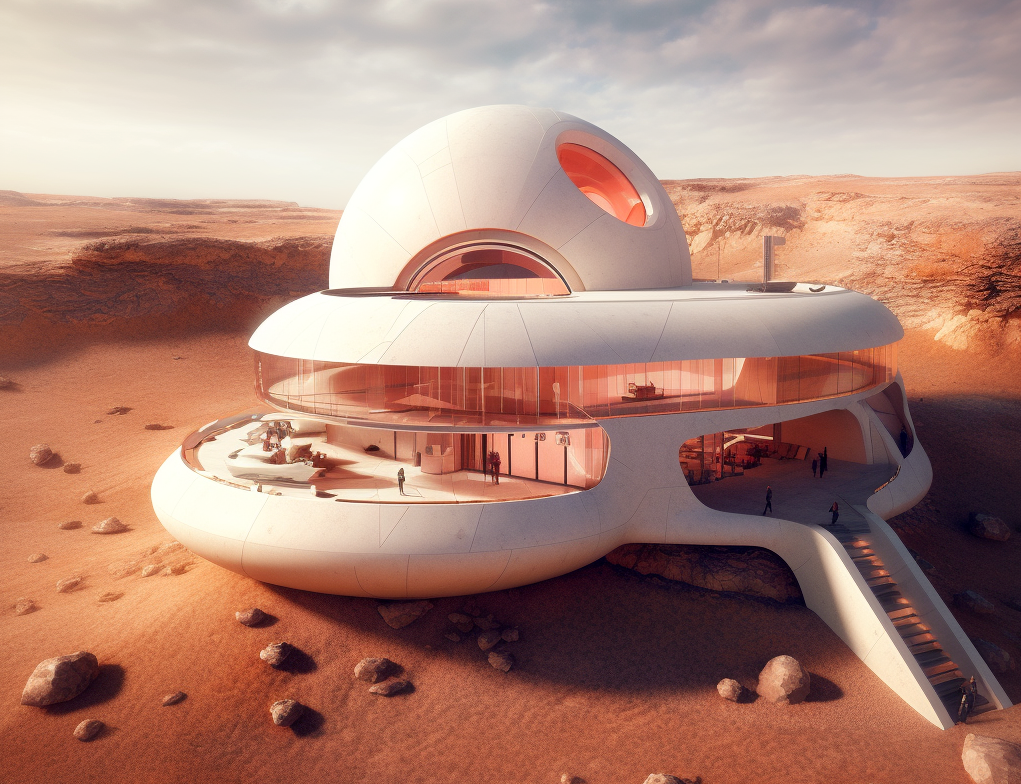
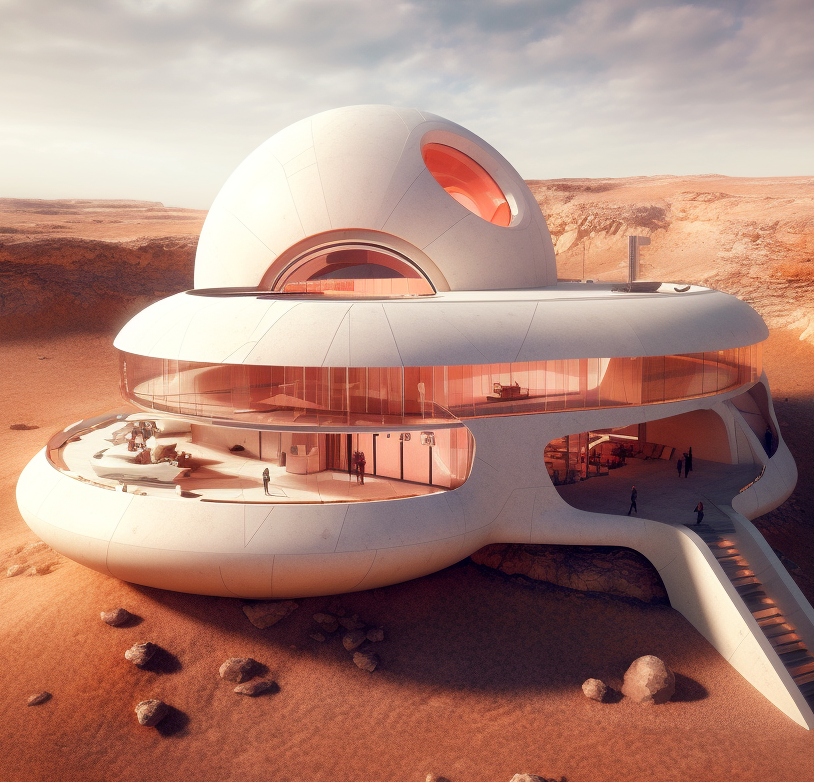
add more star trek content, add shelter photos that are squared

diff --git a/src/Components/ProjectGrid.js b/src/Components/ProjectGrid.js
@@ -7,7 +7,7 @@ import robot1 from '../img/robot1.PNG';
 import robot2 from '../img/robot2.PNG';
 import robot3 from '../img/robot3.jpg';
 import shelter1 from '../img/shelter11.png';
-import shelter2 from '../img/shelter22.png';
+import shelter2 from '../img/shel1.png';
 import shelter3 from '../img/shelter33.png';
 import pizza1 from '../img/womanpizza.png';
 import book1 from '../img/book1.png';
@@ -20,6 +20,11 @@ import yellow from '../img/yellow.png';
 import pizza3 from '../img/pizza3.png';
 import fullRobot from '../img/fullRobot.png';
 import full2 from '../img/full2.png';
+import star1 from '../img/starTrek1.png';
+import star2 from '../img/starTrek2.png';
+import star3 from '../img/starTrek3.png';
+import star4 from '../img/starTrek4.png';
+import star5 from '../img/straTrek5.png';
 function Grids() {
 
 
@@ -163,9 +168,11 @@ function Grids() {
 
                 <div className="portfolio__text-section">
                   <div className="imagesForEach" >
-                    <img alt="starTrek1" className="portfolio__img" src={robot1} />
-                    <img alt="starTrek2" className="portfolio__img" src={robot2} />
-                    <img alt="starTrek3" className="portfolio__img" src={robot3} />
+                    <img alt="starTrek1" className="portfolio__img" src={star1} />
+                    <img alt="starTrek2" className="portfolio__img" src={star2} />
+                    <img alt="starTrek3" className="portfolio__img" src={star3} />
+                    <img alt="starTrek2" className="portfolio__img" src={star4} />
+                    <img alt="starTrek3" className="portfolio__img" src={star5} />
                   </div>
                   <h1 className="portfolio__title hover-underline-animation">
                     <a href="https://github.com/carolinecerussi/STARTREKD" className="portfolio__link">'Engage' - A Star Trek Dashboard →</a></h1>
